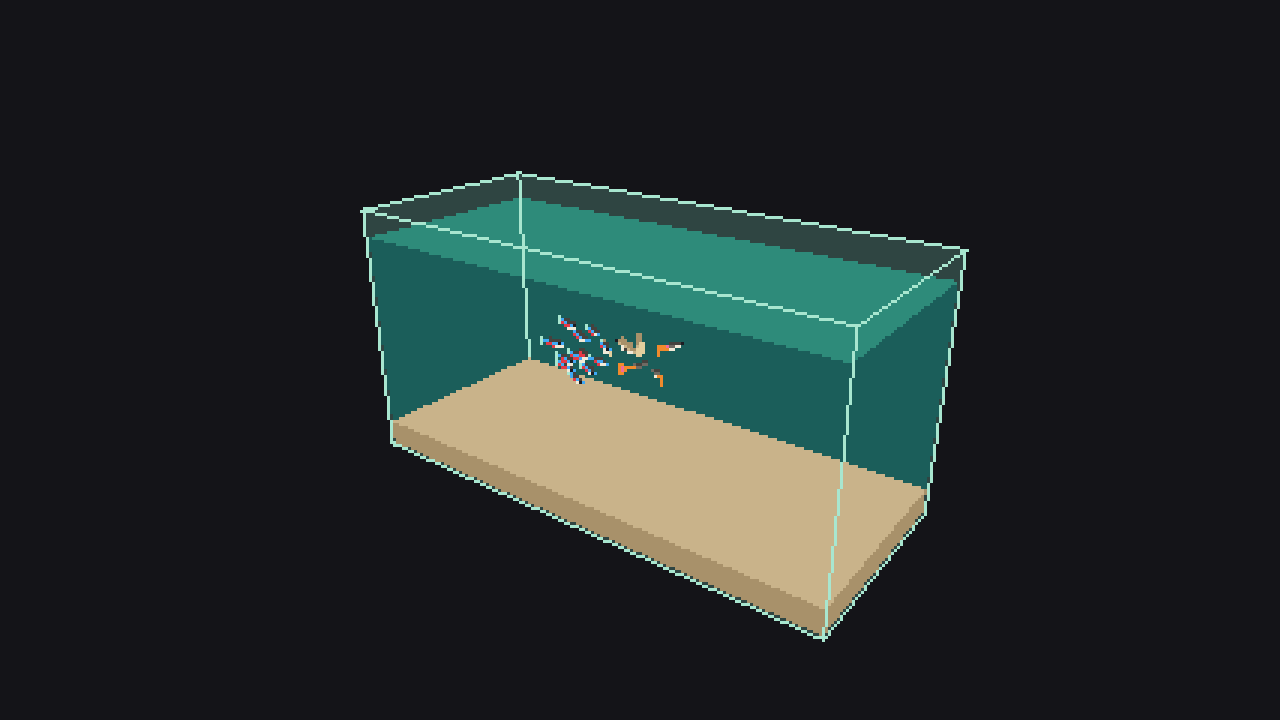
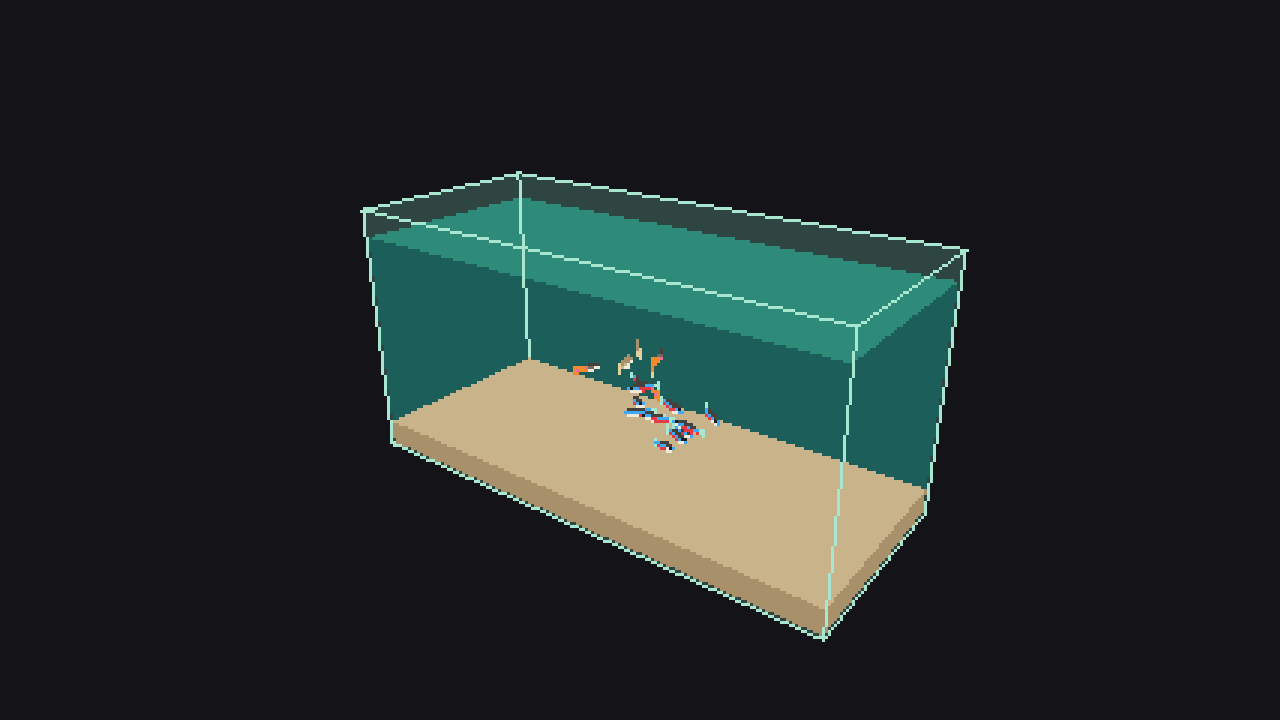
captures(c013): 5 angles + tracé

Changed region(s): [[0.4062, 0.4278, 0.5625, 0.6417]]

diff --git a/captures/latest/SOURCE.md b/captures/latest/SOURCE.md
@@ -1,6 +1,6 @@
-# Captures c012
+# Captures c013
 
-- Branche : cycle/c012-delai-test-banc (PR #47)
-- Commit : d904c50
-- Graine : 42 ; temps simulé : 30 s ; 1280×720, pixel ratio 1
-- Remarque : les 6 images sont identiques octet pour octet à c011 (aucun code de rendu ni de simulation modifié).
+- Branche : cycle/c013-trajectoires-vitres (PR #54)
+- Commit : 9a7cace
+- Graine : 42 ; temps simulé : 30 s ; 1280×720, pixel ratio 1 ; tracé : 60 s
+- Remarque : `bottom.png` identique à c012 ; les autres angles ne diffèrent que par la position des poissons (réglage de la nage). `trajectoires-top.png` : nouveau tracé SVG.

diff --git a/captures/c013/SOURCE.md b/captures/c013/SOURCE.md
@@ -1,0 +1,6 @@
+# Captures c013
+
+- Branche : cycle/c013-trajectoires-vitres (PR #54)
+- Commit : 9a7cace
+- Graine : 42 ; temps simulé : 30 s ; 1280×720, pixel ratio 1 ; tracé : 60 s
+- Remarque : `bottom.png` identique à c012 ; les autres angles ne diffèrent que par la position des poissons (réglage de la nage). `trajectoires-top.png` : nouveau tracé SVG.
